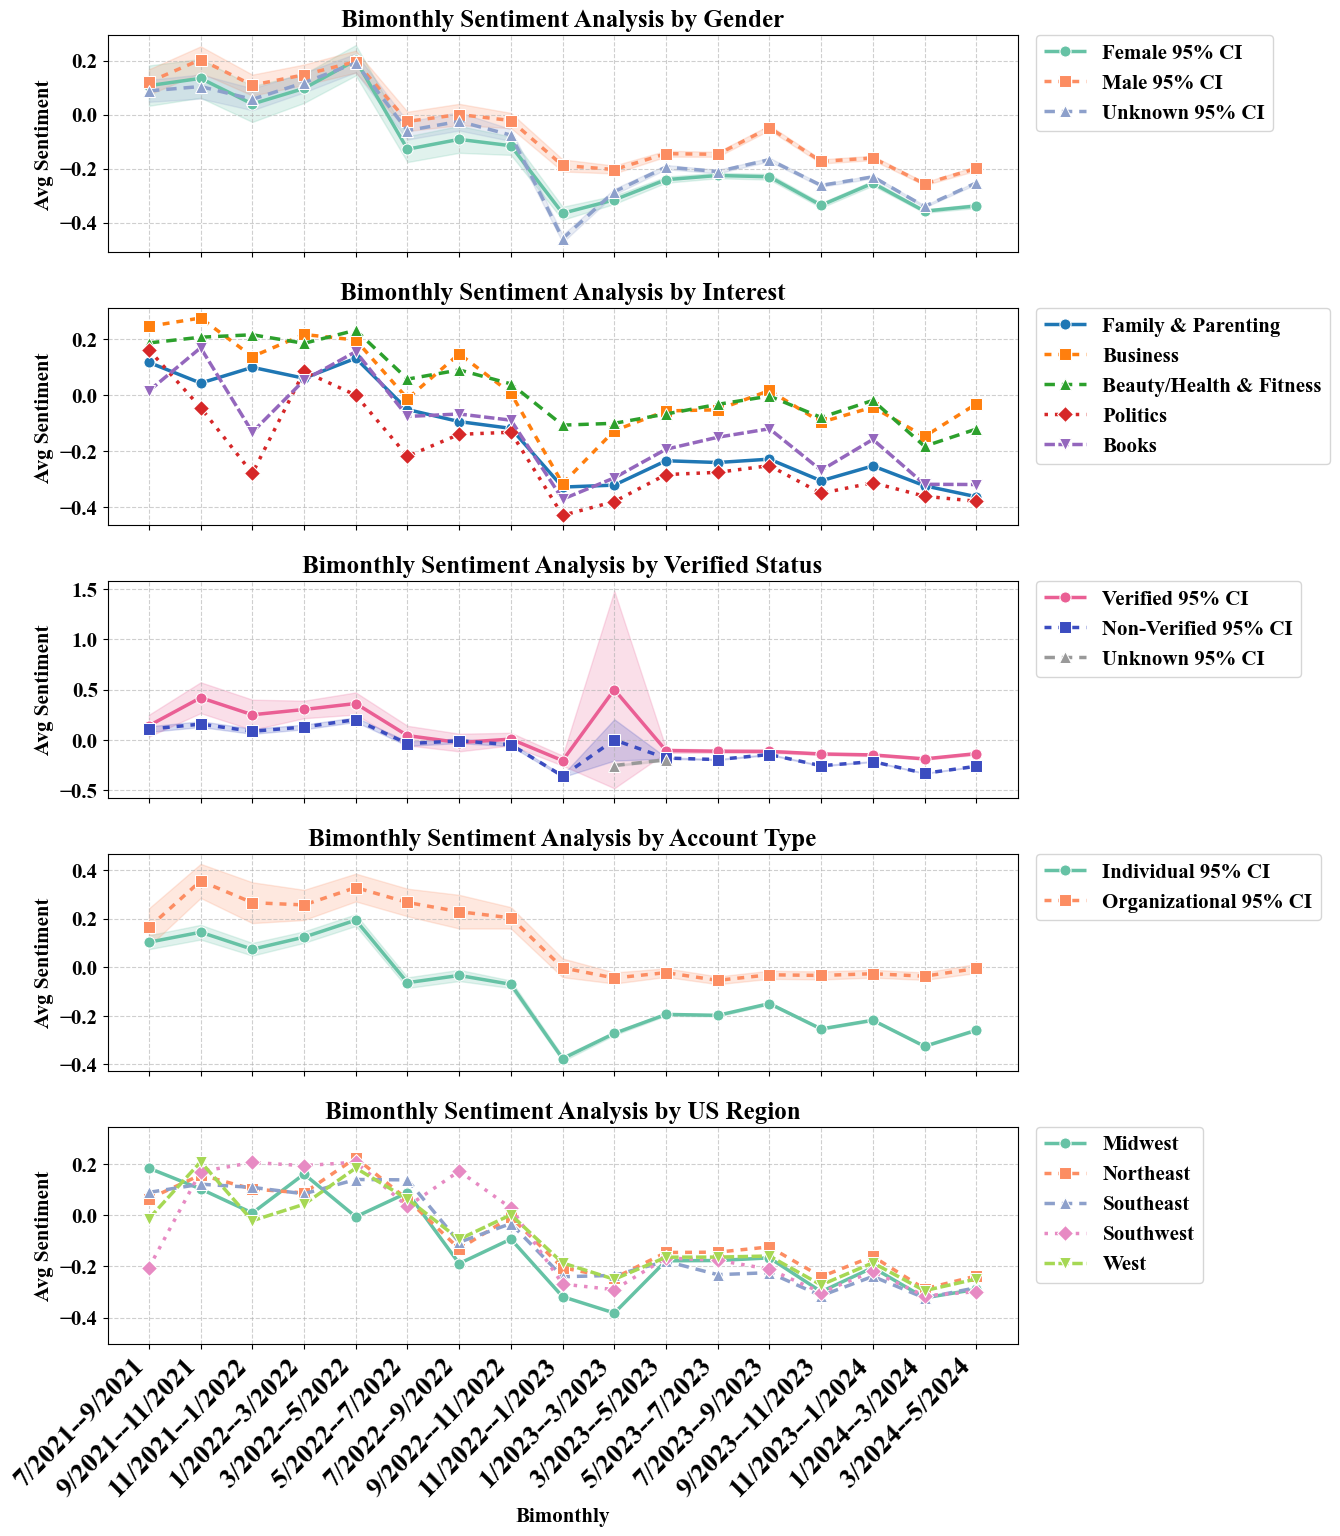
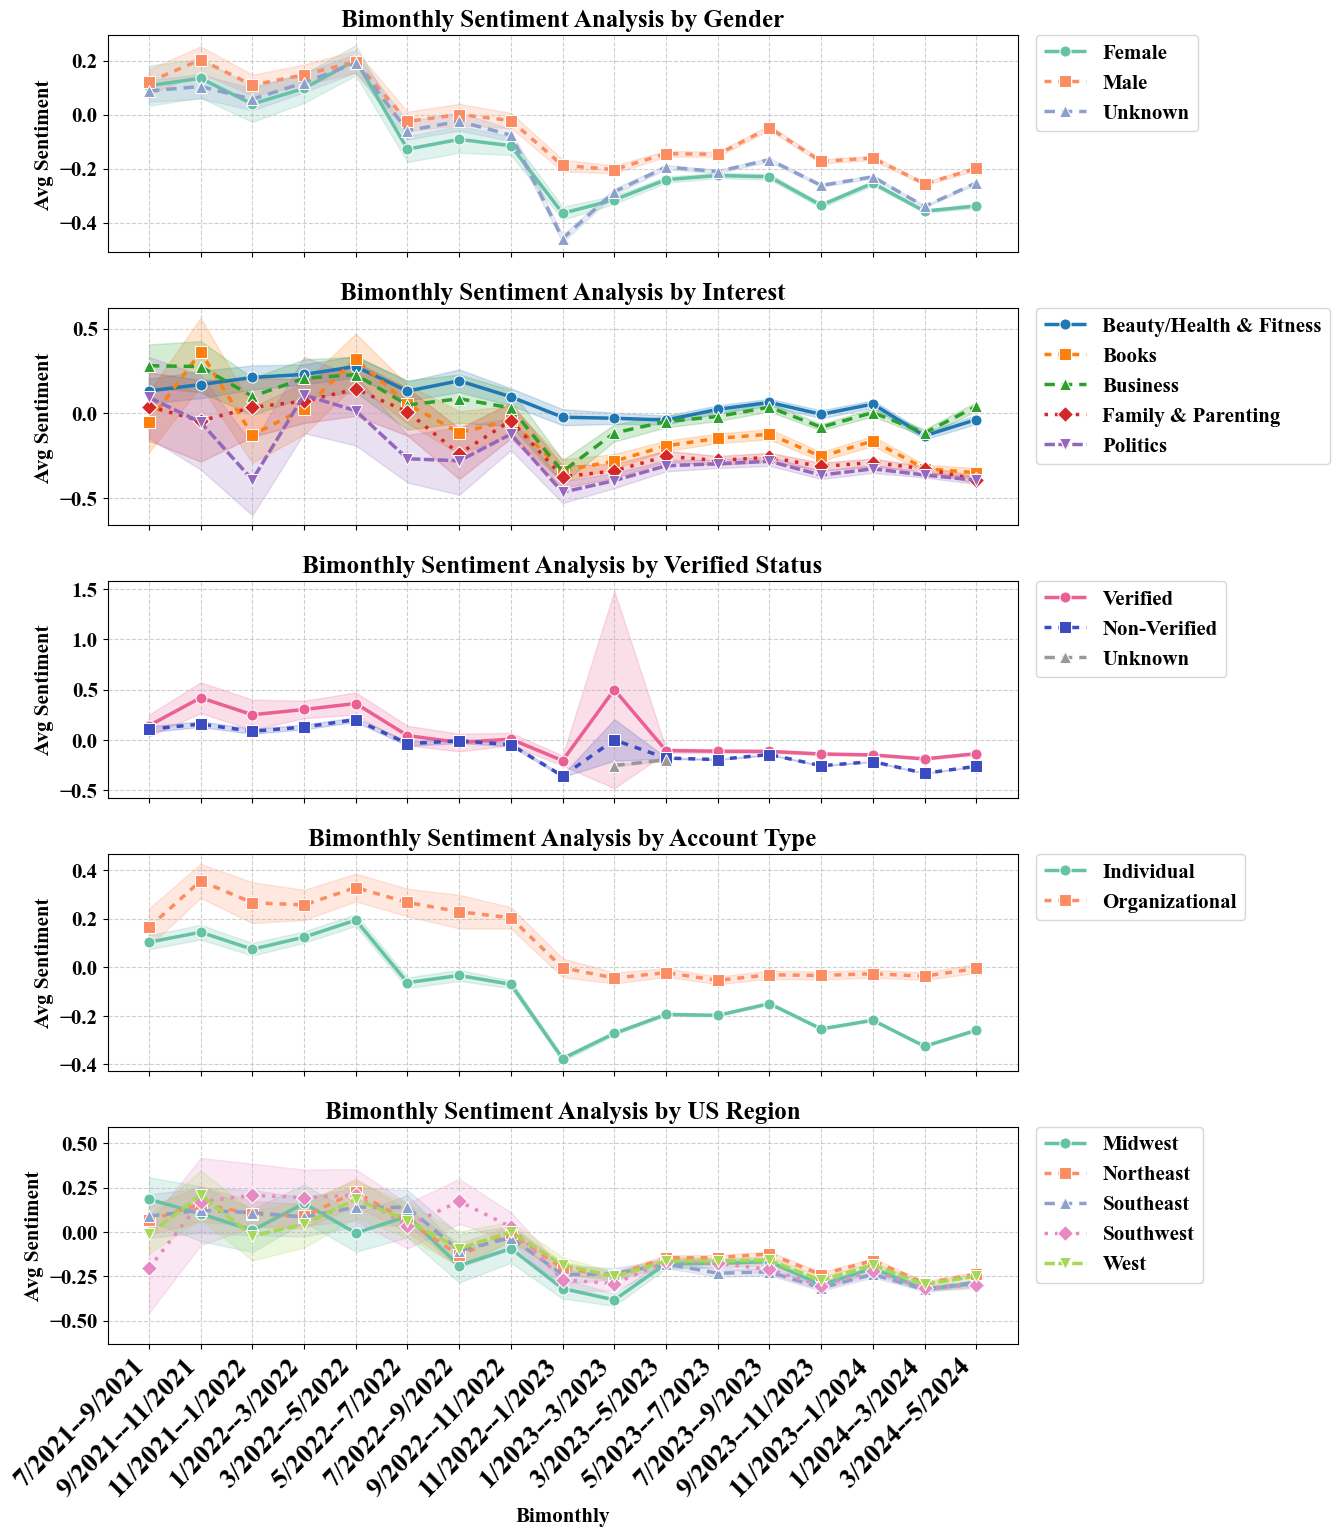
bimonthly adding  95% CI  Interest  Region.

diff --git a/bimonthly_visualization_analysisـretweetExclusion.py b/bimonthly_visualization_analysisـretweetExclusion.py
@@ -30,15 +30,15 @@ df['Date'] = pd.to_datetime(df['Date'], errors='coerce')
 df = df.dropna(subset=['Date'])
 
 df['Gender'] = df['Gender'].replace({
-    'male': 'Male 95% CI',
-    'female': 'Female 95% CI',
-    'unknown': 'Unknown 95% CI'
+    'male': 'Male',
+    'female': 'Female', #here if want to add 95% CI label
+    'unknown': 'Unknown'
 })
 # Standardize Account_Type
 df['Account Type'] = df['Account Type'].replace({
-    'individual': 'Individual 95% CI',
-    'organisational': 'Organizational 95% CI',
-    'unknown': 'Unknown 95% CI'
+    'individual': 'Individual',
+    'organisational': 'Organizational',
+    'unknown': 'Unknown'
 })
 
 
@@ -93,9 +93,9 @@ df['Twitter Verified'] = df['Twitter Verified'].replace({
     "": "Unknown", "unknown": "Unknown", "nan": "Unknown", "none": "Unknown"
 })
 df['Twitter Verified'] = df['Twitter Verified'].replace({
-    'Verified': 'Verified 95% CI',
-    'Non-Verified': 'Non-Verified 95% CI',
-    'Unknown': 'Unknown 95% CI'
+    'Verified': 'Verified', #if wnat to add 95% CI label: 'Verified': 'Verified 95%',
+    'Non-Verified': 'Non-Verified',
+    'Unknown': 'Unknown'
 })
 unknown_verified_df = df[df['Twitter Verified'] == "Unknown"]
 print(unknown_verified_df['Date'])
@@ -174,6 +174,8 @@ gender_stats = compute_ci(df, ['Gender', 'Bimonthly'])
 verified_stats = compute_ci(df, ['Twitter Verified', 'Bimonthly'])
 account_stats = compute_ci(df, ['Account Type', 'Bimonthly'])
 country_stats = compute_ci(df, ['Country', 'Bimonthly'])
+
+region_stats = compute_ci(df_us_only, ['Region', 'Bimonthly'])
 #-----------------------------------------------------
 
 # Plotting
@@ -230,14 +232,28 @@ print(f"top interests: {top_popular_interests}")
 top_interest_df = df[df['Interest'].isin(top_popular_interests['Interest'])]
 print(top_interest_df)
 top_interests = top_interest_df.groupby(['Interest'])['mean_sentiment'].mean().reset_index()
+interest_stats = compute_ci(df[df['Interest'].isin(top_popular_interests['Interest'])],
+                            ['Interest', 'Bimonthly'])
 
 top_interests_plot = temporal_df[temporal_df['Interest'].isin(top_popular_interests['Interest'])]
-sns.lineplot(ax=axes[1], data=top_interests_plot,
-             x='Bimonthly', y='Mean Sentiment', 
+
+
+
+sns.lineplot(ax=axes[1], data=interest_stats,
+             x='Bimonthly', y='mean_sentiment',
              hue='Interest', style='Interest',
-             markers=['o', 's', '^', 'D', 'v'], 
+             markers=['o', 's', '^', 'D', 'v'],
              dashes=[(1, 0), (2, 2), (3, 2), (1, 2), (3, 1)],
              markersize=8, linewidth=2.5, palette='tab10')
+
+# Add 95% CI bands
+palette = sns.color_palette('tab10', n_colors=len(interest_stats['Interest'].unique()))
+for i, (interest, grp) in enumerate(interest_stats.groupby('Interest')):
+    axes[1].fill_between(grp['Bimonthly'],
+                         grp['mean_sentiment'] - grp['ci95'],
+                         grp['mean_sentiment'] + grp['ci95'],
+                         alpha=0.2, color=palette[i])
+
 axes[1].set_title("Bimonthly Sentiment Analysis by Interest", fontsize=18, fontweight='bold')
 axes[1].set_ylabel("Avg Sentiment", fontsize=15, fontweight='bold')
 axes[1].legend(title='Interest')
@@ -246,11 +262,11 @@ axes[1].grid(visible=True, linestyle='--', alpha=0.6)
 # Plot 3: Verified vs Non-Verified Users Analysis
 # Define fixed palette mapping
 
-verified_order = ['Verified 95% CI', 'Non-Verified 95% CI', 'Unknown 95% CI']
+verified_order = ['Verified', 'Non-Verified', 'Unknown']
 verified_palette = {
-    'Verified 95% CI': '#EA5F94',
-    'Non-Verified 95% CI': '#3B4CC0',
-    'Unknown 95% CI': '#999999'
+    'Verified': '#EA5F94',
+    'Non-Verified': '#3B4CC0',
+    'Unknown': '#999999'
 }
 
 sns.lineplot(ax=axes[2], data=verified_stats, x='Bimonthly', y='mean_sentiment',
@@ -309,12 +325,21 @@ axes[4].set_ylabel("Avg Sentiment", fontsize=15, fontweight='bold')
 axes[4].legend(title='Country')
 axes[4].grid(visible=True, linestyle='--', alpha=0.6)'''
 
-# Plot 5: Account Type Temporal Sentiment Analysis
-sns.lineplot(ax=axes[4], data=grouped_region, x='Bimonthly', y='mean_sentiment',
+# Plot 5: Regional Temporal Sentiment Analysis
+sns.lineplot(ax=axes[4], data=region_stats,
+             x='Bimonthly', y='mean_sentiment',
              hue='Region', style='Region',
-             markers=['o','s','^','D','v'], 
+             markers=['o','s','^','D','v'],
              dashes=[(1,0),(2,2),(3,2),(1,2),(3,1)],
              markersize=8, linewidth=2.5, palette='Set2')
+
+#  95% CI bands
+palette = sns.color_palette('Set2', n_colors=len(region_stats['Region'].unique()))
+for i, (region, grp) in enumerate(region_stats.groupby('Region')):
+    axes[4].fill_between(grp['Bimonthly'],
+                         grp['mean_sentiment'] - grp['ci95'],
+                         grp['mean_sentiment'] + grp['ci95'],
+                         alpha=0.2, color=palette[i])
 
 axes[4].set_title("Bimonthly Sentiment Analysis by US Region", fontsize=18, fontweight='bold')
 axes[4].set_ylabel("Avg Sentiment", fontsize=15, fontweight='bold')
@@ -335,6 +360,7 @@ plt.subplots_adjust(right=0.85, bottom=0.1, hspace=0.4)
 
 plt.margins(y=0.2) 
 plt.tight_layout(pad=2, h_pad=1)  # h_pad adjusts vertical spacing between subplots
+
 
 
 # Save the combined plot

diff --git a/bimonthly_visualization_analysis.py b/bimonthly_visualization_analysis.py
@@ -27,15 +27,15 @@ df['Date'] = pd.to_datetime(df['Date'], errors='coerce')
 df = df.dropna(subset=['Date'])
 
 df['Gender'] = df['Gender'].replace({
-    'male': 'Male 95% CI',
-    'female': 'Female 95% CI',
-    'unknown': 'Unknown 95% CI'
+    'male': 'Male',
+    'female': 'Female', #here if want to add 95% CI label
+    'unknown': 'Unknown'
 })
 # Standardize Account_Type
 df['Account Type'] = df['Account Type'].replace({
-    'individual': 'Individual 95% CI',
-    'organisational': 'Organizational 95% CI',
-    'unknown': 'Unknown 95% CI'
+    'individual': 'Individual',
+    'organisational': 'Organizational',
+    'unknown': 'Unknown'
 })
 
 
@@ -90,9 +90,9 @@ df['Twitter Verified'] = df['Twitter Verified'].replace({
     "": "Unknown", "unknown": "Unknown", "nan": "Unknown", "none": "Unknown"
 })
 df['Twitter Verified'] = df['Twitter Verified'].replace({
-    'Verified': 'Verified 95% CI',
-    'Non-Verified': 'Non-Verified 95% CI',
-    'Unknown': 'Unknown 95% CI'
+    'Verified': 'Verified', #if wnat to add 95% CI label: 'Verified': 'Verified 95%',
+    'Non-Verified': 'Non-Verified',
+    'Unknown': 'Unknown'
 })
 unknown_verified_df = df[df['Twitter Verified'] == "Unknown"]
 print(unknown_verified_df['Date'])
@@ -171,6 +171,8 @@ gender_stats = compute_ci(df, ['Gender', 'Bimonthly'])
 verified_stats = compute_ci(df, ['Twitter Verified', 'Bimonthly'])
 account_stats = compute_ci(df, ['Account Type', 'Bimonthly'])
 country_stats = compute_ci(df, ['Country', 'Bimonthly'])
+
+region_stats = compute_ci(df_us_only, ['Region', 'Bimonthly'])
 #-----------------------------------------------------
 
 # Plotting
@@ -227,14 +229,28 @@ print(f"top interests: {top_popular_interests}")
 top_interest_df = df[df['Interest'].isin(top_popular_interests['Interest'])]
 print(top_interest_df)
 top_interests = top_interest_df.groupby(['Interest'])['mean_sentiment'].mean().reset_index()
+interest_stats = compute_ci(df[df['Interest'].isin(top_popular_interests['Interest'])],
+                            ['Interest', 'Bimonthly'])
 
 top_interests_plot = temporal_df[temporal_df['Interest'].isin(top_popular_interests['Interest'])]
-sns.lineplot(ax=axes[1], data=top_interests_plot,
-             x='Bimonthly', y='Mean Sentiment', 
+
+
+
+sns.lineplot(ax=axes[1], data=interest_stats,
+             x='Bimonthly', y='mean_sentiment',
              hue='Interest', style='Interest',
-             markers=['o', 's', '^', 'D', 'v'], 
+             markers=['o', 's', '^', 'D', 'v'],
              dashes=[(1, 0), (2, 2), (3, 2), (1, 2), (3, 1)],
              markersize=8, linewidth=2.5, palette='tab10')
+
+# Add 95% CI bands
+palette = sns.color_palette('tab10', n_colors=len(interest_stats['Interest'].unique()))
+for i, (interest, grp) in enumerate(interest_stats.groupby('Interest')):
+    axes[1].fill_between(grp['Bimonthly'],
+                         grp['mean_sentiment'] - grp['ci95'],
+                         grp['mean_sentiment'] + grp['ci95'],
+                         alpha=0.2, color=palette[i])
+
 axes[1].set_title("Bimonthly Sentiment Analysis by Interest", fontsize=18, fontweight='bold')
 axes[1].set_ylabel("Avg Sentiment", fontsize=15, fontweight='bold')
 axes[1].legend(title='Interest')
@@ -243,11 +259,11 @@ axes[1].grid(visible=True, linestyle='--', alpha=0.6)
 # Plot 3: Verified vs Non-Verified Users Analysis
 # Define fixed palette mapping
 
-verified_order = ['Verified 95% CI', 'Non-Verified 95% CI', 'Unknown 95% CI']
+verified_order = ['Verified', 'Non-Verified', 'Unknown']
 verified_palette = {
-    'Verified 95% CI': '#EA5F94',
-    'Non-Verified 95% CI': '#3B4CC0',
-    'Unknown 95% CI': '#999999'
+    'Verified': '#EA5F94',
+    'Non-Verified': '#3B4CC0',
+    'Unknown': '#999999'
 }
 
 sns.lineplot(ax=axes[2], data=verified_stats, x='Bimonthly', y='mean_sentiment',
@@ -306,12 +322,21 @@ axes[4].set_ylabel("Avg Sentiment", fontsize=15, fontweight='bold')
 axes[4].legend(title='Country')
 axes[4].grid(visible=True, linestyle='--', alpha=0.6)'''
 
-# Plot 5: Account Type Temporal Sentiment Analysis
-sns.lineplot(ax=axes[4], data=grouped_region, x='Bimonthly', y='mean_sentiment',
+# Plot 5: Regional Temporal Sentiment Analysis
+sns.lineplot(ax=axes[4], data=region_stats,
+             x='Bimonthly', y='mean_sentiment',
              hue='Region', style='Region',
-             markers=['o','s','^','D','v'], 
+             markers=['o','s','^','D','v'],
              dashes=[(1,0),(2,2),(3,2),(1,2),(3,1)],
              markersize=8, linewidth=2.5, palette='Set2')
+
+#  95% CI bands
+palette = sns.color_palette('Set2', n_colors=len(region_stats['Region'].unique()))
+for i, (region, grp) in enumerate(region_stats.groupby('Region')):
+    axes[4].fill_between(grp['Bimonthly'],
+                         grp['mean_sentiment'] - grp['ci95'],
+                         grp['mean_sentiment'] + grp['ci95'],
+                         alpha=0.2, color=palette[i])
 
 axes[4].set_title("Bimonthly Sentiment Analysis by US Region", fontsize=18, fontweight='bold')
 axes[4].set_ylabel("Avg Sentiment", fontsize=15, fontweight='bold')

diff --git a/SubpopulationsAnalysis/account_type2.py b/SubpopulationsAnalysis/account_type2.py
@@ -21,10 +21,12 @@ if __name__ == "__main__":
     output_root = "output/account_type"
     
     #--------------- Uncomment one of the following lines to choose the input data file----------------------
-    #df = pd.read_pickle("../data/normalized_data.pkl") # all tweets and retweets
-    #df = df[df['Engagement Type'] != 'RETWEET'] # remove retweets
+    df = pd.read_pickle("../data/normalized_data.pkl") # all tweets and retweets
+    df = df[df['Engagement Type'] != 'RETWEET'] # remove retweets
     #df = pd.read_pickle("../data/grouped2_data.pkl") # all tweets and retweets grouped by user
-    df= pd.read_pickle("../data/grouped2_data_removed_retweets.pkl") # all tweets without retweets grouped by user
+    user_lenght = len(df)
+    print(f"Total users: {user_lenght:,}")
+    #df= pd.read_pickle("../data/grouped2_data_removed_retweets.pkl") # all tweets without retweets grouped by user
     #------------------------------------------------------------------------------------------------------
     df = df.dropna(subset=['Account_Type'])
     account_type_stats = df.groupby('Account_Type')['mean_sentiment'].agg(['mean', 'std']).reset_index()

diff --git a/SubpopulationsAnalysis/gender2.py b/SubpopulationsAnalysis/gender2.py
@@ -23,9 +23,13 @@ if __name__ == "__main__":
     #--------------------------
     #Each time we uncomment the relevant df loading line:
     #--------------------------
-    #df = pd.read_pickle("../data/normalized_data.pkl")
-    #df = df[df['Engagement Type'] != 'RETWEET']
-    df = pd.read_pickle("../data/grouped2_data.pkl")
+    df = pd.read_pickle("../data/normalized_data.pkl")
+    total_posts = len(df)
+    df = df[df['Engagement Type'] != 'RETWEET']
+    retweet_exxluded_posts = len(df)
+    print(f"Total posts before exclusion: {total_posts:,}")
+    print(f"Total posts after retweet exclusion: {retweet_exxluded_posts:,}")
+    #df = pd.read_pickle("../data/grouped2_data.pkl")
     #df= pd.read_pickle("../data/grouped2_data_removed_retweets.pkl")
     #--------------------------  
     df = df.dropna(subset=['mean_sentiment'])
